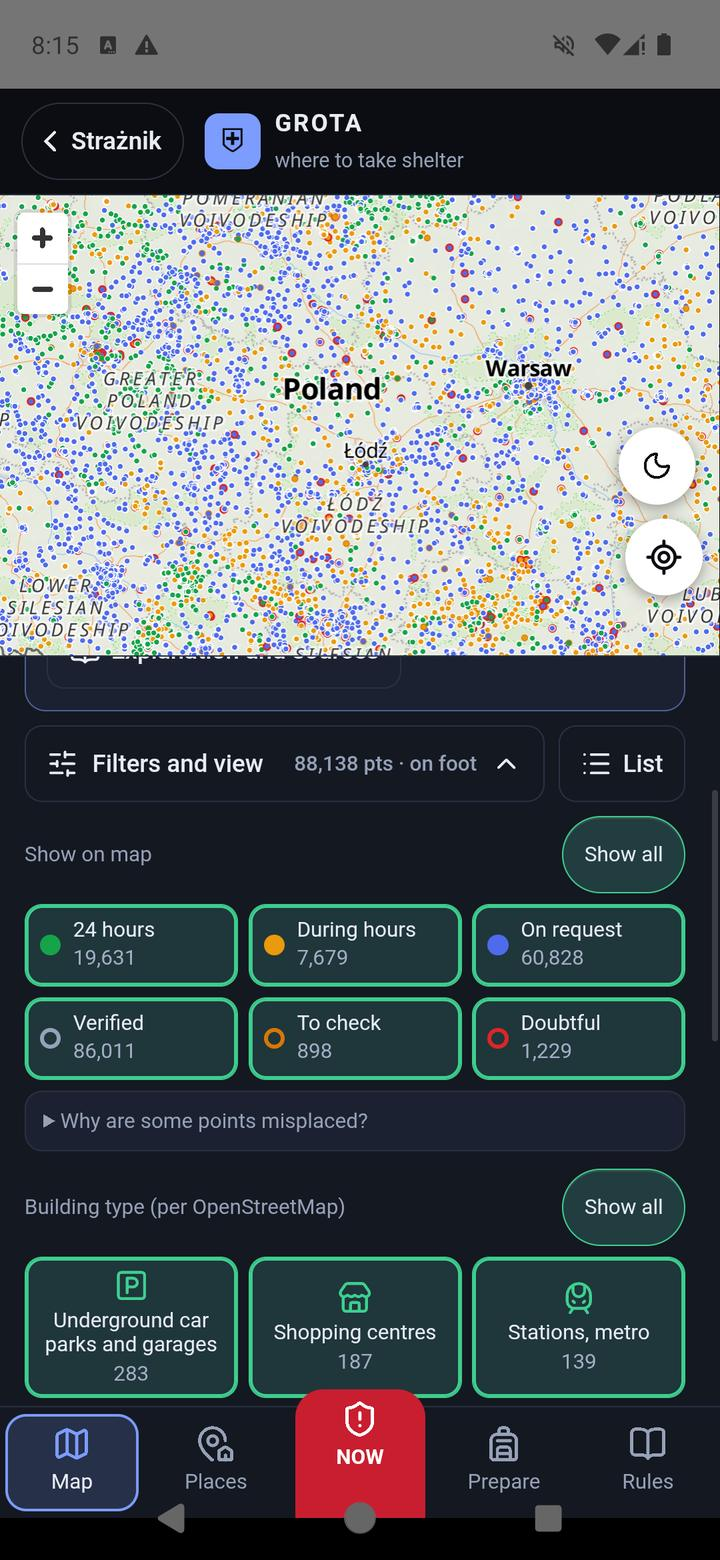
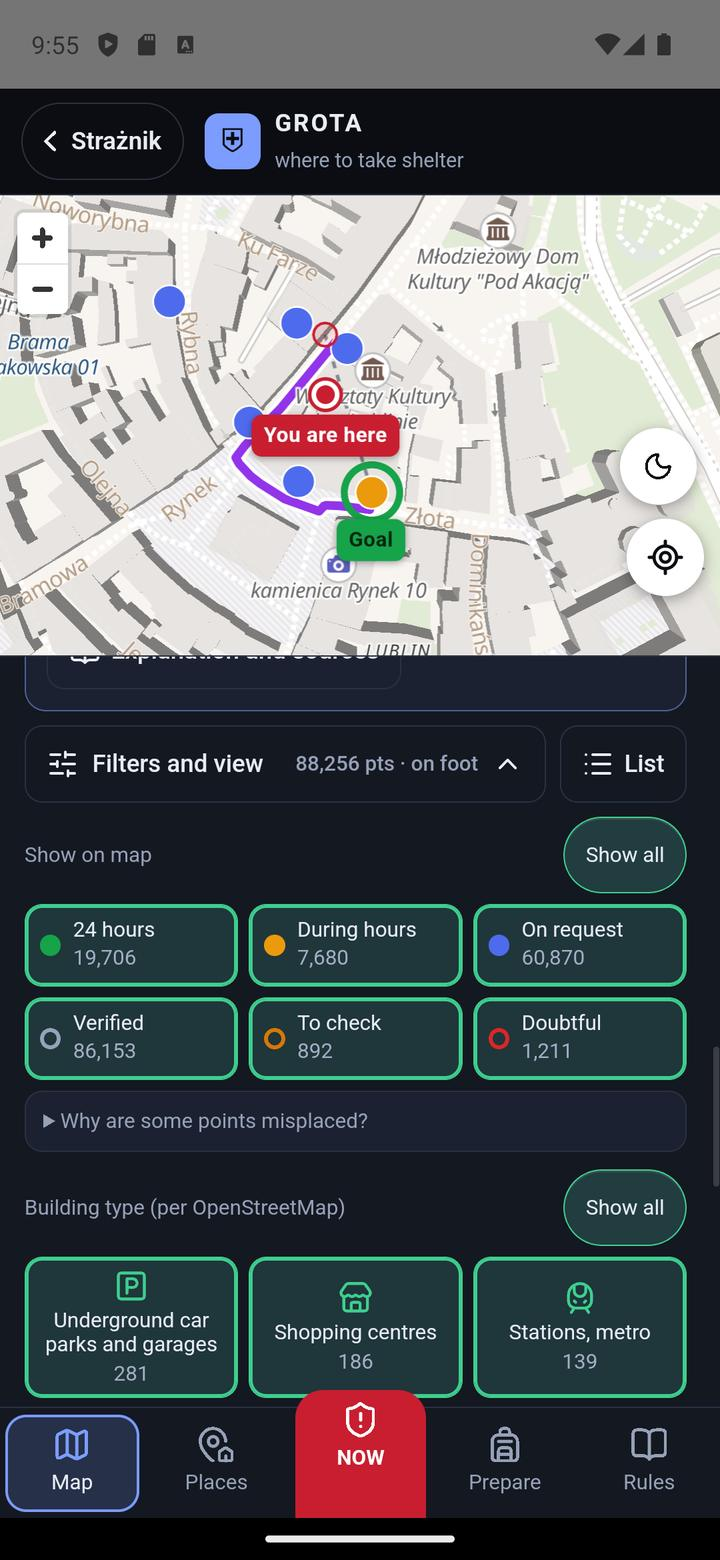
Instrukcja GROTY: zrzuty do wykazu z 10.11.2026 (filtry, data wykazu, ostrzezenie)
Dziewiec klatek - g13, g29, g31 po polsku, angielsku i ukrainsku - z jednego
buildu debug galezi grota-wykaz-1011 (modul 2f0f7ba4db, wykaz z 10.11),
na emulatorze Pixel 7 z Androidem 14 przy wm size 1080x2340, przeskalowane
do 720x1560 JPEG. Nic nie retuszowane.

Liczniki na g13 zgodzily sie co do jednego z policzonymi z paczki przed
zrzutem: 19 706 / 7680 / 60 870 wedlug dostepnosci i 86 153 / 892 / 1211
wedlug pewnosci polozenia.

Ukrainski g13 ma liczby pod kafelkami rodzaju budynku ciete dolna krawedzia,
bo ukrainskie napisy lamia sie na dwie linie. Poprzedni opis alternatywny
wymienial te liczby, mimo ze na obrazku ich nie widac - teraz opis mowi,
ze sa uciete, zamiast podawac to, czego na ekranie nie ma.

Stan do g31 (miejsce "Dom" z punktem OZO-77191AD48DDA i zapisana data wykazu
2026-10-26) wpisany do pamieci aplikacji tak samo jak 02.11 i tak samo opisany
w docs/screens/README.md. Emulator byl wyczyszczony, wiec seria przeszla przez
wlasny pierwszy start aplikacji: zgoda na powiadomienia ODMOWIONA, alarmow nie
wlaczano, nadana tylko lokalizacja.

Klatki z 02.11 zastapione, nie zostawione obok - pokazuja liczby i date, ktorych
w aplikacji juz nie ma. Wykaz z 06.11 nie ma zadnych klatek, bo nie zostal wydany.

diff --git a/docs/grota-uk.html b/docs/grota-uk.html
@@ -29,7 +29,7 @@
     <h1>GROTA — де сховатися</h1>
     <p class="lead">GROTA — частина застосунку Strażnik («Вартовий»). Під час повітряної тривоги вона показує <b>найближчі місця укриття</b> з публічного переліку Державної пожежної служби Польщі (PSP) і веде до них. Заздалегідь допомагає зберегти укриття біля дому, роботи й школи, завантажити мапу на випадок відсутності інтернету та підготуватися за польським урядовим «Порадником безпеки».</p>
     <div class="actions"><a class="button primary" href="https://play.google.com/store/apps/details?id=pl.straznik.app">↓ Strażnik у Google Play</a><a class="button" href="https://github.com/cukierrro/Straznik/releases/latest/download/Straznik.apk">↓ Завантажити Strażnik для Android</a><a class="button" href="en.html">Посібник Strażnik (англійською)</a></div>
-    <p class="fineprint">З версії 1.7.72 GROTA працює <b>українською</b>, англійською та польською (розділ 8). Сам Strażnik (поза GROTA) має польську й англійську мови, тому його кнопки подаємо польською, а в дужках — англійською. Знімки: 22 вересня 2026, емулятор, позиція в Старому місті Любліна; списки підготовки і вкладку Правила перезняли 26 вересня 2026 у випуску 1.7.80, мапу й фільтри — 19 жовтня 2026 у випуску 1.7.99, новий екран пошуку без інтернету — 26 жовтня 2026, а фільтри, дату переліку PSP і попередження про зміну переліку — 2 листопада 2026, після виходу переліку з того дня; адреси з переліку PSP залишаються польською. GROTA працює в застосунках для Android та iPhone; у браузерній версії її немає. Торкніться знімка, щоб відкрити його повністю. Переклад посібника — машинний з перевіркою; якщо помітите помилку, напишіть нам.</p>
+    <p class="fineprint">З версії 1.7.72 GROTA працює <b>українською</b>, англійською та польською (розділ 8). Сам Strażnik (поза GROTA) має польську й англійську мови, тому його кнопки подаємо польською, а в дужках — англійською. Знімки: 22 вересня 2026, емулятор, позиція в Старому місті Любліна; списки підготовки і вкладку Правила перезняли 26 вересня 2026 у випуску 1.7.80, мапу й фільтри — 19 жовтня 2026 у випуску 1.7.99, новий екран пошуку без інтернету — 26 жовтня 2026, а фільтри, дату переліку PSP і попередження про зміну переліку — 11 листопада 2026, після виходу переліку від 10 листопада; адреси з переліку PSP залишаються польською. GROTA працює в застосунках для Android та iPhone; у браузерній версії її немає. Торкніться знімка, щоб відкрити його повністю. Переклад посібника — машинний з перевіркою; якщо помітите помилку, напишіть нам.</p>
   </div>
   <a class="shot-link" href="screens/grota/g04-teraz-propozycja-uk.jpg"><img src="screens/grota/g04-teraz-propozycja-uk.jpg" width="720" height="1560" alt="Екран ЗАРАЗ у GROTA: мапа Старого міста Любліна з маршрутом від «Ви тут» до мети, під нею картка «Найближче перевірене укриття — ul. Złota 2, Lublin» і велика зелена кнопка ВЕСТИ"></a>
 </div></header>
@@ -114,7 +114,7 @@
   <div class="shots"><figure><a class="shot-link" href="screens/grota/g30-lista-uk.jpg"><img loading="lazy" src="screens/grota/g30-lista-uk.jpg" width="720" height="1560" alt="Список найближчих пунктів: ul. Podwale 11 69 м, ul. Podwale 11 78 м, ul. Grodzka 5 102 м, ul. Zlota 2 107 м — з часом пішки, доступом і видом об'єкта"></a><figcaption>Ті самі пункти, що й на мапі, словами.</figcaption></figure></div>
   <h3>Фільтри й вигляд</h3>
   <p><kbd>Фільтри й вигляд</kbd> під мапою дозволяє показати лише вибрані пункти: за доступом (<kbd>Цілодобово</kbd>, <kbd>У години</kbd>, <kbd>На вимогу</kbd>), за певністю розташування (<kbd>Перевірені</kbd>, <kbd>Перевірити</kbd>, <kbd>Сумнівні</kbd>) і за <b>типом будівлі</b> (11 груп, наприклад підземні паркінги, багатоквартирні будинки, школи, лікарні). Кожна кнопка вмикає або вимикає свою групу; <kbd>Показати всі</kbd> позначає все, а натиснута ще раз — знімає позначки. Тут також вибираєте <kbd>Пішки</kbd>, <kbd>Велосипед</kbd> або <kbd>Автомобіль</kbd>.</p>
-  <div class="shots"><figure><a class="shot-link" href="screens/grota/g13-mapa-filtry-uk.jpg"><img loading="lazy" src="screens/grota/g13-mapa-filtry-uk.jpg" width="720" height="1560" alt="Розгорнуті фільтри: Цілодобово 19 631, У години 7 679, На вимогу 60 828, Перевірені 86 011, Перевірити 898, Сумнівні 1 229, а нижче типи будівель — підземні паркінги й гаражі 283, торговельні центри 187, вокзали, станції, метро 139"></a><figcaption>Фільтри доступу і певності.</figcaption></figure><figure><a class="shot-link" href="screens/grota/g14-mapa-rodzaje-uk.jpg"><img loading="lazy" src="screens/grota/g14-mapa-rodzaje-uk.jpg" width="720" height="1560" alt="Тип будівлі (за OpenStreetMap): підземні паркінги, торгові центри, вокзали, багатоквартирні будинки, будинки, школи, лікарні, установи, офіси, культура, невідомий"></a><figcaption>Тип будівлі.</figcaption></figure></div>
+  <div class="shots"><figure><a class="shot-link" href="screens/grota/g13-mapa-filtry-uk.jpg"><img loading="lazy" src="screens/grota/g13-mapa-filtry-uk.jpg" width="720" height="1560" alt="Розгорнуті фільтри: Цілодобово 19 706, У години 7 680, На вимогу 60 870, Перевірені 86 153, Перевірити 892, Сумнівні 1 211, а нижче типи будівель — підземні паркінги й гаражі, торговельні центри, вокзали, станції, метро (числа під ними обрізані нижнім краєм екрана)"></a><figcaption>Фільтри доступу і певності.</figcaption></figure><figure><a class="shot-link" href="screens/grota/g14-mapa-rodzaje-uk.jpg"><img loading="lazy" src="screens/grota/g14-mapa-rodzaje-uk.jpg" width="720" height="1560" alt="Тип будівлі (за OpenStreetMap): підземні паркінги, торгові центри, вокзали, багатоквартирні будинки, будинки, школи, лікарні, установи, офіси, культура, невідомий"></a><figcaption>Тип будівлі.</figcaption></figure></div>
   <div class="note">Фільтр мапи діє <b>лише на мапу</b>. ЗАРАЗ завжди шукає серед усіх перевірених пунктів, якщо ви самі не звузили вибір у «Вести до пунктів».</div>
   <p><b>Чому тут немає «сховищ»?</b> Під час першого відкриття GROTA пояснює, що публічні дані PSP не розрізняють сховище, укриття і тимчасове місце захисту, а повний реєстр за законом не є публічним. <kbd>Пояснення й джерела</kbd> веде до Правил.</p>
 </section>
@@ -139,7 +139,7 @@
     <li>Записаний маршрут до такого пункту застарів — GROTA ним не поведе і пояснить чому.</li>
     <li>Таке саме попередження побачите, коли пункт зникне з переліку (26 жовтня їх убуло 300).</li>
   </ul>
-  <div class="shots"><figure><a class="shot-link" href="screens/grota/g31-zmiana-wykazu-uk.jpg"><img loading="lazy" src="screens/grota/g31-zmiana-wykazu-uk.jpg" width="720" height="1560" alt="Картка місця Dom (укриття 1/3, пішки) з попередженням: Перелік PSP змінився — перевірте збережені укриття. Збережене тут укриття: ul. Spacerowa 51, Pęczniew, гміна Pęczniew; у переліку PSP від 2026-11-02 під тим самим номером тепер інша будівля: ul. Polna 13/15, Poddębice — за 19 км. Вибір нового місця укриття є обов’язковим. Кнопки Вибрати нове укриття і Залишаю як є"></a><figcaption>Попередження біля укриття, збереженого перед зміною переліку.</figcaption></figure></div>
+  <div class="shots"><figure><a class="shot-link" href="screens/grota/g31-zmiana-wykazu-uk.jpg"><img loading="lazy" src="screens/grota/g31-zmiana-wykazu-uk.jpg" width="720" height="1560" alt="Картка місця Dom (укриття 3/3, пішки) з попередженням: Перелік PSP змінився — перевірте збережені укриття. Збережене тут укриття: ul. Spacerowa 51, Pęczniew, гміна Pęczniew; у переліку PSP від 2026-11-10 під тим самим номером тепер інша будівля: ul. Polna 13/15, Poddębice — за 19 км. Вибір нового місця укриття є обов’язковим. Кнопки Вибрати нове укриття і Залишаю як є"></a><figcaption>Попередження біля укриття, збереженого перед зміною переліку.</figcaption></figure></div>
   <h3>Подробиці, нотатки й редагування</h3>
   <p>У подробицях місця видно розташування, <b>«Моє місце в будівлі»</b> (наприклад «коридор на першому поверсі, без вікон» — де сховатися, якщо не встигнете вийти) і вибрані укриття. Біля кожного укриття є поле <b>«Як увійти — години, хто відчиняє, контакт управителя (ваша нотатка)»</b>. Його варто заповнити після розмови з управителем. Олівець відкриває редагування: назва, розташування, вид, ваше місце в будівлі з прапорцем <b>«Я перевірив це місце на місці»</b>, короткий список підготовки і спосіб пересування. Зміни зберігаються самі. Кошик видаляє місце, а ручка ⋮⋮ змінює порядок.</p>
   <div class="shots"><figure><a class="shot-link" href="screens/grota/g17-miejsce-szczegoly-uk.jpg"><img loading="lazy" src="screens/grota/g17-miejsce-szczegoly-uk.jpg" width="720" height="1560" alt="Подробиці місця Дім: розташування, моє місце в будівлі, перевірене; пересування пішки"></a><figcaption>Подробиці місця.</figcaption></figure><figure><a class="shot-link" href="screens/grota/g18-miejsce-schronienia-uk.jpg"><img loading="lazy" src="screens/grota/g18-miejsce-schronienia-uk.jpg" width="720" height="1560" alt="Мої укриття 2/3: ul. Złota 2 з нотаткою і записаним маршрутом"></a><figcaption>Укриття з нотаткою і записаним маршрутом.</figcaption></figure></div>
@@ -175,7 +175,7 @@
 <section id="zasady">
   <h2>7. Вкладка Правила</h2>
 <p>GROTA не створює власних процедур. Кожна порада у вкладці <kbd>Правила</kbd> — цитата з польського урядового «Порадника безпеки» («Poradnik bezpieczeństwa», 1/2025) з номером сторінки: що робити, почувши сигнал тривоги, повітряна атака, укриття (що робити, якщо не встигаєте), евакуація, підготовка оточення і план на випадок кризи. Від випуску 1.7.80 є також окремий розділ <b>«Інструкція реагування МВС Польщі»</b> — цитати з матеріалу МВС Польщі та Державної пожежної служби від 25 вересня 2026 року: як вибрати приміщення, правило двох стін, коли не спускатися в підвал і де стати в підземному гаражі. Далі пояснення: чого порадник не визначає, чому в GROTA немає «сховищ», <b>наскільки свіжі пункти</b> (дата реєстру PSP і їх кількість, взяті прямо з пакета даних), обмеження даних, звідки беруться зміщені пункти, і джерела. <kbd>Закрити</kbd> повертає до попередньої вкладки.</p>
-  <div class="shots"><figure><a class="shot-link" href="screens/grota/g28-zasady-instrukcja-uk.jpg"><img loading="lazy" src="screens/grota/g28-zasady-instrukcja-uk.jpg" width="720" height="1560" alt="Розділ Інструкція реагування МВС Польщі у вкладці Правила: пояснення, що це за матеріал від 25 вересня 2026 року, і правило Коли встигаєте до пункту укриття зі сторінкою 4"></a><figcaption>Правила з інструкції МВС.</figcaption></figure><figure><a class="shot-link" href="screens/grota/g29-zasady-dane-uk.jpg"><img loading="lazy" src="screens/grota/g29-zasady-dane-uk.jpg" width="720" height="1560" alt="Розділ Наскільки свіжі пункти: пункти з відкритого реєстру Державної пожежної служби, станом на 02.11.2026, 88 138 у цій версії застосунку"></a><figcaption>Дата реєстру PSP.</figcaption></figure></div>
+  <div class="shots"><figure><a class="shot-link" href="screens/grota/g28-zasady-instrukcja-uk.jpg"><img loading="lazy" src="screens/grota/g28-zasady-instrukcja-uk.jpg" width="720" height="1560" alt="Розділ Інструкція реагування МВС Польщі у вкладці Правила: пояснення, що це за матеріал від 25 вересня 2026 року, і правило Коли встигаєте до пункту укриття зі сторінкою 4"></a><figcaption>Правила з інструкції МВС.</figcaption></figure><figure><a class="shot-link" href="screens/grota/g29-zasady-dane-uk.jpg"><img loading="lazy" src="screens/grota/g29-zasady-dane-uk.jpg" width="720" height="1560" alt="Розділ Наскільки свіжі пункти: пункти з відкритого реєстру Державної пожежної служби, станом на 10.11.2026, 88 256 у цій версії застосунку"></a><figcaption>Дата реєстру PSP.</figcaption></figure></div>
 </section>
 
 <section id="jezyk">

diff --git a/docs/grota.html b/docs/grota.html
@@ -29,7 +29,7 @@
     <h1>GROTA — gdzie się schronić</h1>
     <p class="lead">GROTA to część aplikacji Strażnik. Przy alarmie pokazuje <b>najbliższe miejsca schronienia</b> z publicznego wykazu Państwowej Straży Pożarnej i prowadzi do nich. Zawczasu pomaga zapisać schronienia przy domu, pracy i szkole, pobrać mapę na wypadek braku internetu i przygotować się według „Poradnika bezpieczeństwa”.</p>
     <div class="actions"><a class="button primary" href="https://play.google.com/store/apps/details?id=pl.straznik.app">↓ Strażnik w Google Play</a><a class="button" href="https://github.com/cukierrro/Straznik/releases/latest/download/Straznik.apk">↓ Pobierz Strażnika na Androida</a><a class="button" href="index.html">Instrukcja Strażnika</a></div>
-    <p class="fineprint">Zrzuty zrobiono 22 września 2026 w Strażniku 1.7.68, z pozycją na Starym Mieście w Lublinie; listy przygotowań i zakładkę Zasady odświeżono 26 września 2026 w wydaniu 1.7.80, mapę i filtry 19 października 2026 w wydaniu 1.7.99, nowy ekran szukania bez internetu — 26 października 2026, a filtry, datę wykazu PSP i ostrzeżenie o zmianie wykazu — 2 listopada 2026, po wejściu wykazu z tego dnia. Adresy na zrzutach pochodzą z publicznego wykazu PSP. GROTA działa w aplikacji na Androida i na iPhone'a; <b>nie ma jej w wersji przeglądarkowej</b>. Od wersji 1.7.72 mówi po polsku, angielsku i ukraińsku (rozdział 8). Dotknij zdjęcia, aby otworzyć je w pełnym rozmiarze.</p>
+    <p class="fineprint">Zrzuty zrobiono 22 września 2026 w Strażniku 1.7.68, z pozycją na Starym Mieście w Lublinie; listy przygotowań i zakładkę Zasady odświeżono 26 września 2026 w wydaniu 1.7.80, mapę i filtry 19 października 2026 w wydaniu 1.7.99, nowy ekran szukania bez internetu — 26 października 2026, a filtry, datę wykazu PSP i ostrzeżenie o zmianie wykazu — 11 listopada 2026, po wejściu wykazu z 10 listopada. Adresy na zrzutach pochodzą z publicznego wykazu PSP. GROTA działa w aplikacji na Androida i na iPhone'a; <b>nie ma jej w wersji przeglądarkowej</b>. Od wersji 1.7.72 mówi po polsku, angielsku i ukraińsku (rozdział 8). Dotknij zdjęcia, aby otworzyć je w pełnym rozmiarze.</p>
   </div>
   <a class="shot-link" href="screens/grota/g04-teraz-propozycja.jpg"><img src="screens/grota/g04-teraz-propozycja.jpg" width="720" height="1560" alt="Ekran TERAZ w GROCIE: mapa Starego Miasta w Lublinie z trasą od „Tu jesteś” do celu, a pod nią karta „Najbliższe sprawdzone miejsce schronienia — ul. Złota 2, Lublin, 218 m, ok. 3 min trasą” i duży zielony przycisk PROWADŹ"></a>
 </div></header>
@@ -114,7 +114,7 @@
   <div class="shots"><figure><a class="shot-link" href="screens/grota/g30-lista.jpg"><img loading="lazy" src="screens/grota/g30-lista.jpg" width="720" height="1560" alt="Lista najbliższych punktów: ul. Podwale 11 69 m, ul. Podwale 11 78 m, ul. Grodzka 5 102 m, ul. Złota 2 107 m — z czasem dojścia, dostępem i rodzajem obiektu"></a><figcaption>Te same punkty co na mapie, do przeczytania.</figcaption></figure></div>
   <h3>Filtry i widok</h3>
   <p><kbd>Filtry i widok</kbd> pod mapą pozwala pokazać tylko wybrane punkty: według dostępu (<kbd>Całodobowo</kbd>, <kbd>W godzinach</kbd>, <kbd>Na żądanie</kbd>), pewności położenia (<kbd>Sprawdzone</kbd>, <kbd>Do sprawdzenia</kbd>, <kbd>Wątpliwe</kbd>) i <b>rodzaju budynku</b> (11 grup, np. parkingi podziemne, bloki, szkoły, szpitale). Każdy przycisk włącza albo wyłącza swoją grupę; <kbd>Pokaż wszystkie</kbd> zaznacza wszystko, a naciśnięte ponownie — odznacza. Tu też wybierasz <kbd>Pieszo</kbd>, <kbd>Rower</kbd> albo <kbd>Samochód</kbd>.</p>
-  <div class="shots"><figure><a class="shot-link" href="screens/grota/g13-mapa-filtry.jpg"><img loading="lazy" src="screens/grota/g13-mapa-filtry.jpg" width="720" height="1560" alt="Rozwinięte filtry: Całodobowo 19 631, W godzinach 7679, Na żądanie 60 828, Sprawdzone 86 011, Do sprawdzenia 898, Wątpliwe 1229, a niżej rodzaje budynku — parkingi podziemne i garaże 283, centra handlowe 187, dworce, stacje, metro 139"></a><figcaption>Filtry dostępu i pewności.</figcaption></figure><figure><a class="shot-link" href="screens/grota/g14-mapa-rodzaje.jpg"><img loading="lazy" src="screens/grota/g14-mapa-rodzaje.jpg" width="720" height="1560" alt="Rodzaj budynku wg OpenStreetMap: parkingi podziemne, centra handlowe, dworce, bloki, domy, szkoły, szpitale, urzędy, biura, kultura, rodzaj nieznany"></a><figcaption>Rodzaj budynku.</figcaption></figure></div>
+  <div class="shots"><figure><a class="shot-link" href="screens/grota/g13-mapa-filtry.jpg"><img loading="lazy" src="screens/grota/g13-mapa-filtry.jpg" width="720" height="1560" alt="Rozwinięte filtry: Całodobowo 19 706, W godzinach 7680, Na żądanie 60 870, Sprawdzone 86 153, Do sprawdzenia 892, Wątpliwe 1211, a niżej rodzaje budynku — parkingi podziemne i garaże 281, centra handlowe 186, dworce, stacje, metro 139"></a><figcaption>Filtry dostępu i pewności.</figcaption></figure><figure><a class="shot-link" href="screens/grota/g14-mapa-rodzaje.jpg"><img loading="lazy" src="screens/grota/g14-mapa-rodzaje.jpg" width="720" height="1560" alt="Rodzaj budynku wg OpenStreetMap: parkingi podziemne, centra handlowe, dworce, bloki, domy, szkoły, szpitale, urzędy, biura, kultura, rodzaj nieznany"></a><figcaption>Rodzaj budynku.</figcaption></figure></div>
   <div class="note">Filtr mapy dotyczy <b>tylko mapy</b>. TERAZ zawsze szuka wśród wszystkich sprawdzonych punktów, chyba że sam zawęzisz wybór w „Prowadź do punktów”.</div>
   <p><b>Czemu nie ma tu „schronów”?</b> Przy pierwszym wejściu GROTA wyjaśnia, że publiczne dane PSP nie rozróżniają schronu, ukrycia i miejsca doraźnego schronienia, a pełna ewidencja z mocy ustawy nie jest jawna. <kbd>Wyjaśnienie i źródła</kbd> prowadzi do Zasad.</p>
 </section>
@@ -139,7 +139,7 @@
     <li>Nagrana trasa do takiego punktu jest nieaktualna — GROTA nią nie poprowadzi i powie dlaczego.</li>
     <li>To samo ostrzeżenie zobaczysz, gdy punkt zniknie z wykazu (26 października ubyło ich 300).</li>
   </ul>
-  <div class="shots"><figure><a class="shot-link" href="screens/grota/g31-zmiana-wykazu.jpg"><img loading="lazy" src="screens/grota/g31-zmiana-wykazu.jpg" width="720" height="1560" alt="Karta miejsca Dom (schronienia 1/3, pieszo) z ostrzeżeniem: Zmienił się wykaz PSP — sprawdź zapisane schronienia. Zapisane tu schronienie: ul. Spacerowa 51, Pęczniew, gm. Pęczniew; w wykazie PSP z 2026-11-02 pod tym samym numerem jest teraz inny obiekt: ul. Polna 13/15, Poddębice — 19 km dalej. Wybór nowego miejsca schronienia jest konieczny. Przyciski Wybierz nowe schronienie i Zostawiam jak jest"></a><figcaption>Ostrzeżenie przy schronieniu zapisanym przed zmianą wykazu.</figcaption></figure></div>
+  <div class="shots"><figure><a class="shot-link" href="screens/grota/g31-zmiana-wykazu.jpg"><img loading="lazy" src="screens/grota/g31-zmiana-wykazu.jpg" width="720" height="1560" alt="Karta miejsca Dom (schronienia 3/3, pieszo) z ostrzeżeniem: Zmienił się wykaz PSP — sprawdź zapisane schronienia. Zapisane tu schronienie: ul. Spacerowa 51, Pęczniew, gm. Pęczniew; w wykazie PSP z 2026-11-10 pod tym samym numerem jest teraz inny obiekt: ul. Polna 13/15, Poddębice — 19 km dalej. Wybór nowego miejsca schronienia jest konieczny. Przyciski Wybierz nowe schronienie i Zostawiam jak jest"></a><figcaption>Ostrzeżenie przy schronieniu zapisanym przed zmianą wykazu.</figcaption></figure></div>
   <h3>Szczegóły, notatki i edycja</h3>
   <p>W szczegółach miejsca widać położenie, <b>„Moje miejsce w budynku”</b> (np. „korytarz na parterze, bez okien” — gdzie się schować, gdy nie zdążysz wyjść) i wybrane schronienia. Przy każdym schronieniu jest pole <b>„Jak wejść — godziny, kto otwiera, kontakt do zarządcy (Twoja notatka)”</b>. Warto je wypełnić po rozmowie z zarządcą. Ołówek otwiera edycję: nazwa, położenie, rodzaj, miejsce w budynku z polem „Sprawdziłem to miejsce na miejscu”, skrócona lista kontrolna i środek transportu. Zmiany zapisują się same („✓ Zapisano”). Kosz usuwa miejsce, a uchwyt ⋮⋮ zmienia kolejność.</p>
   <div class="shots"><figure><a class="shot-link" href="screens/grota/g17-miejsce-szczegoly.jpg"><img loading="lazy" src="screens/grota/g17-miejsce-szczegoly.jpg" width="720" height="1560" alt="Szczegóły miejsca Dom: położenie Lublin, ul. Królewska 4, moje miejsce w budynku korytarz na parterze bez okien, sprawdzone, środek transportu Pieszo"></a><figcaption>Szczegóły miejsca.</figcaption></figure><figure><a class="shot-link" href="screens/grota/g18-miejsce-schronienia.jpg"><img loading="lazy" src="screens/grota/g18-miejsce-schronienia.jpg" width="720" height="1560" alt="Moje miejsca schronienia 2/3: ul. Złota 2 z notatką Czynne 8–20, klucz u portiera i nagraną trasą 240 m, 3 min 25 s"></a><figcaption>Schronienie z notatką i nagraną trasą.</figcaption></figure></div>
@@ -175,7 +175,7 @@
 <section id="zasady">
   <h2>7. Zakładka Zasady</h2>
 <p>GROTA nie tworzy własnych procedur. Każde zalecenie w zakładce <kbd>Zasady</kbd> to cytat z „Poradnika bezpieczeństwa” (Rząd RP, 1/2025) z numerem strony: co robić po usłyszeniu sygnału alarmowego, atak z powietrza, schronienia (co robić, gdy nie zdążysz), ewakuacja, przygotowanie otoczenia i plan na kryzys. Od wydania 1.7.80 jest też osobny dział <b>„Instrukcja reagowania MSWiA”</b> — cytaty z materiału MSWiA i Państwowej Straży Pożarnej z 25 września 2026: jak wybrać pomieszczenie, zasada dwóch ścian, kiedy nie schodzić do piwnicy i gdzie stanąć w garażu podziemnym. Dalej są wyjaśnienia: czego poradnik nie określa, dlaczego w GROCIE nie ma „schronów”, <b>z kiedy są punkty</b> (data wykazu PSP i ich liczba, brane wprost z paczki w aplikacji), jakie są ograniczenia danych, skąd biorą się przesunięte punkty i źródła. <kbd>Zamknij</kbd> wraca do poprzedniej zakładki.</p>
-  <div class="shots"><figure><a class="shot-link" href="screens/grota/g27-zasady.jpg"><img loading="lazy" src="screens/grota/g27-zasady.jpg" width="720" height="1560" alt="Góra zakładki Zasady: karta wyboru języka, wyjaśnienie skąd pochodzą zalecenia i pierwszy dział Sygnały alarmowe"></a><figcaption>Zasady z poradnika.</figcaption></figure><figure><a class="shot-link" href="screens/grota/g28-zasady-instrukcja.jpg"><img loading="lazy" src="screens/grota/g28-zasady-instrukcja.jpg" width="720" height="1560" alt="Dział Instrukcja reagowania MSWiA w zakładce Zasady: wyjaśnienie, czym jest materiał z 25 września 2026, i zasada Gdy zdążysz do punktu schronienia ze stroną 4"></a><figcaption>Zasady z instrukcji MSWiA.</figcaption></figure><figure><a class="shot-link" href="screens/grota/g29-zasady-dane.jpg"><img loading="lazy" src="screens/grota/g29-zasady-dane.jpg" width="720" height="1560" alt="Sekcja Z kiedy są punkty: punkty z wykazu Komendy Głównej PSP, stan na 02.11.2026, 88 138 punktów w tej wersji aplikacji"></a><figcaption>Data wykazu PSP.</figcaption></figure></div>
+  <div class="shots"><figure><a class="shot-link" href="screens/grota/g27-zasady.jpg"><img loading="lazy" src="screens/grota/g27-zasady.jpg" width="720" height="1560" alt="Góra zakładki Zasady: karta wyboru języka, wyjaśnienie skąd pochodzą zalecenia i pierwszy dział Sygnały alarmowe"></a><figcaption>Zasady z poradnika.</figcaption></figure><figure><a class="shot-link" href="screens/grota/g28-zasady-instrukcja.jpg"><img loading="lazy" src="screens/grota/g28-zasady-instrukcja.jpg" width="720" height="1560" alt="Dział Instrukcja reagowania MSWiA w zakładce Zasady: wyjaśnienie, czym jest materiał z 25 września 2026, i zasada Gdy zdążysz do punktu schronienia ze stroną 4"></a><figcaption>Zasady z instrukcji MSWiA.</figcaption></figure><figure><a class="shot-link" href="screens/grota/g29-zasady-dane.jpg"><img loading="lazy" src="screens/grota/g29-zasady-dane.jpg" width="720" height="1560" alt="Sekcja Z kiedy są punkty: punkty z wykazu Komendy Głównej PSP, stan na 10.11.2026, 88 256 punktów w tej wersji aplikacji"></a><figcaption>Data wykazu PSP.</figcaption></figure></div>
 </section>
 
 <section id="jezyk">

diff --git a/docs/grota-en.html b/docs/grota-en.html
@@ -29,7 +29,7 @@
     <h1>GROTA — where to take shelter</h1>
     <p class="lead">GROTA is part of the Strażnik app. During an alert it shows the <b>nearest shelter points</b> from the public list of Poland's State Fire Service (PSP) and guides you there. In advance, it helps you save shelters near your home, work and school, download a map for when there is no internet, and prepare following the Polish government's Safety Guide.</p>
     <div class="actions"><a class="button primary" href="https://play.google.com/store/apps/details?id=pl.straznik.app">↓ Strażnik on Google Play</a><a class="button" href="https://github.com/cukierrro/Straznik/releases/latest/download/Straznik.apk">↓ Get Strażnik for Android</a><a class="button" href="en.html">Strażnik user guide</a></div>
-    <p class="fineprint">Since version 1.7.72 GROTA speaks <b>English, Ukrainian and Polish</b> (section 8). Screenshots: 22 September 2026, emulator, position in Lublin's Old Town; the preparation checklists and the Rules tab were retaken on 26 September 2026 in release 1.7.80, the map and filters on 19 October 2026 in release 1.7.99, a new screen for searching without the internet on 26 October 2026, and the filters, the PSP list date and the register-change warning on 2 November 2026, after that day's register came in; addresses come from the public PSP list and stay in Polish. GROTA works in the Android and iPhone apps; it is <b>not part of the browser version</b>. Tap a screenshot to open it full size.</p>
+    <p class="fineprint">Since version 1.7.72 GROTA speaks <b>English, Ukrainian and Polish</b> (section 8). Screenshots: 22 September 2026, emulator, position in Lublin's Old Town; the preparation checklists and the Rules tab were retaken on 26 September 2026 in release 1.7.80, the map and filters on 19 October 2026 in release 1.7.99, a new screen for searching without the internet on 26 October 2026, and the filters, the PSP list date and the register-change warning on 11 November 2026, after the register of 10 November came in; addresses come from the public PSP list and stay in Polish. GROTA works in the Android and iPhone apps; it is <b>not part of the browser version</b>. Tap a screenshot to open it full size.</p>
   </div>
   <a class="shot-link" href="screens/grota/g04-teraz-propozycja-en.jpg"><img src="screens/grota/g04-teraz-propozycja-en.jpg" width="720" height="1560" alt="GROTA's NOW screen: a map of Lublin's Old Town with a route from “You are here” to the goal, and below it the card “Nearest verified shelter — ul. Złota 2, Lublin” with a big green NAVIGATE button"></a>
 </div></header>
@@ -114,7 +114,7 @@
   <div class="shots"><figure><a class="shot-link" href="screens/grota/g30-lista-en.jpg"><img loading="lazy" src="screens/grota/g30-lista-en.jpg" width="720" height="1560" alt="A list of the nearest points: ul. Podwale 11 69 m, ul. Podwale 11 78 m, ul. Grodzka 5 102 m, ul. Zlota 2 107 m — with walking time, access and type of facility"></a><figcaption>The same points as on the map, in words.</figcaption></figure></div>
   <h3>Filters and view</h3>
   <p><kbd>Filters and view</kbd> under the map shows only selected points: by access (<kbd>24 hours</kbd>, <kbd>During hours</kbd>, <kbd>On request</kbd>), by location certainty (<kbd>Verified</kbd>, <kbd>To check</kbd>, <kbd>Doubtful</kbd>) and by <b>building type</b> (11 groups, e.g. underground car parks, blocks of flats, schools, hospitals). Each button toggles its group; <kbd>Show all</kbd> selects everything, and pressed again — clears it. Here you also choose <kbd>On foot</kbd>, <kbd>Bike</kbd> or <kbd>Car</kbd>.</p>
-  <div class="shots"><figure><a class="shot-link" href="screens/grota/g13-mapa-filtry-en.jpg"><img loading="lazy" src="screens/grota/g13-mapa-filtry-en.jpg" width="720" height="1560" alt="The filters expanded: 24 hours 19,631, During hours 7,679, On request 60,828, Verified 86,011, To check 898, Doubtful 1,229, and below them building types — underground car parks and garages 283, shopping centres 187, stations and metro 139"></a><figcaption>Access and certainty filters.</figcaption></figure><figure><a class="shot-link" href="screens/grota/g14-mapa-rodzaje-en.jpg"><img loading="lazy" src="screens/grota/g14-mapa-rodzaje-en.jpg" width="720" height="1560" alt="Building type (per OpenStreetMap): underground car parks, shopping centres, stations, blocks of flats, houses, schools, hospitals, offices, businesses, culture, unknown"></a><figcaption>Building type.</figcaption></figure></div>
+  <div class="shots"><figure><a class="shot-link" href="screens/grota/g13-mapa-filtry-en.jpg"><img loading="lazy" src="screens/grota/g13-mapa-filtry-en.jpg" width="720" height="1560" alt="The filters expanded: 24 hours 19,706, During hours 7,680, On request 60,870, Verified 86,153, To check 892, Doubtful 1,211, and below them building types — underground car parks and garages 281, shopping centres 186, stations and metro 139"></a><figcaption>Access and certainty filters.</figcaption></figure><figure><a class="shot-link" href="screens/grota/g14-mapa-rodzaje-en.jpg"><img loading="lazy" src="screens/grota/g14-mapa-rodzaje-en.jpg" width="720" height="1560" alt="Building type (per OpenStreetMap): underground car parks, shopping centres, stations, blocks of flats, houses, schools, hospitals, offices, businesses, culture, unknown"></a><figcaption>Building type.</figcaption></figure></div>
   <div class="note">The map filter affects <b>only the map</b>. NOW always searches among all verified points, unless you narrow the choice in “Guide to points”.</div>
   <p><b>Why are there no “bunkers” here?</b> On the first visit GROTA explains that the public PSP data does not distinguish a bunker, a shelter and a makeshift refuge, and the full register is not public by law. <kbd>Explanation and sources</kbd> leads to the Rules.</p>
 </section>
@@ -139,7 +139,7 @@
     <li>A route you recorded to such a point is out of date — GROTA will not guide you along it and will say why.</li>
     <li>You will see the same warning when a point disappears from the list (300 were removed on 26 October).</li>
   </ul>
-  <div class="shots"><figure><a class="shot-link" href="screens/grota/g31-zmiana-wykazu-en.jpg"><img loading="lazy" src="screens/grota/g31-zmiana-wykazu-en.jpg" width="720" height="1560" alt="The place card Dom (shelters 1/3, on foot) with the warning: The PSP list has changed — check your saved shelters. The shelter saved here: ul. Spacerowa 51, Pęczniew, Pęczniew municipality; in the PSP list of 2026-11-02 the same number now points to a different building: ul. Polna 13/15, Poddębice — 19 km away. Choosing a new shelter is necessary. Buttons Choose a new shelter and Leave it as it is"></a><figcaption>The warning at a shelter saved before the register changed.</figcaption></figure></div>
+  <div class="shots"><figure><a class="shot-link" href="screens/grota/g31-zmiana-wykazu-en.jpg"><img loading="lazy" src="screens/grota/g31-zmiana-wykazu-en.jpg" width="720" height="1560" alt="The place card Dom (shelters 3/3, on foot) with the warning: The PSP list has changed — check your saved shelters. The shelter saved here: ul. Spacerowa 51, Pęczniew, Pęczniew municipality; in the PSP list of 2026-11-10 the same number now points to a different building: ul. Polna 13/15, Poddębice — 19 km away. Choosing a new shelter is necessary. Buttons Choose a new shelter and Leave it as it is"></a><figcaption>The warning at a shelter saved before the register changed.</figcaption></figure></div>
   <h3>Details, notes and editing</h3>
   <p>A place's details show its location, <b>“My spot in the building”</b> (e.g. “ground-floor corridor, no windows” — where to hide if you can't get out in time) and the chosen shelters. Each shelter has a field <b>“How to get in — hours, who opens it, building manager's contact (your note)”</b>. It is worth filling in after talking to the manager. The pencil opens editing: name, location, type, your spot in the building with a tick <b>“I have checked this spot on site”</b>, a short checklist and the means of transport. Changes save themselves. The bin deletes a place, and the ⋮⋮ handle changes the order.</p>
   <div class="shots"><figure><a class="shot-link" href="screens/grota/g17-miejsce-szczegoly-en.jpg"><img loading="lazy" src="screens/grota/g17-miejsce-szczegoly-en.jpg" width="720" height="1560" alt="Details of the place Home: location, my spot in the building, verified; transport on foot"></a><figcaption>Place details.</figcaption></figure><figure><a class="shot-link" href="screens/grota/g18-miejsce-schronienia-en.jpg"><img loading="lazy" src="screens/grota/g18-miejsce-schronienia-en.jpg" width="720" height="1560" alt="My shelters 2/3: ul. Złota 2 with a note and a recorded route"></a><figcaption>A shelter with a note and a recorded route.</figcaption></figure></div>
@@ -175,7 +175,7 @@
 <section id="zasady">
   <h2>7. The Rules tab</h2>
 <p>GROTA does not make up its own procedures. Every recommendation in the <kbd>Rules</kbd> tab is a quote from the Polish government's Safety Guide (“Poradnik bezpieczeństwa”, 1/2025) with its page number: what to do when you hear an alert signal, an air attack, shelters (what to do if you can't make it in time), evacuation, preparing your surroundings and a crisis plan. Since release 1.7.80 there is also a separate section <b>“Response instruction, Ministry of the Interior”</b> — quotes from the document published by the Ministry of the Interior and the State Fire Service on 25 September 2026: how to choose a room, the two-wall rule, when not to go down to a basement and where to stand in an underground garage. Then come explanations: what the guide does not specify, why GROTA has no “bunkers”, <b>how current the points are</b> (the date of the PSP register and how many points this build holds, both taken straight from the data pack), the limits of the data, where misplaced points come from, and the sources. <kbd>Close</kbd> returns to the previous tab.</p>
-  <div class="shots"><figure><a class="shot-link" href="screens/grota/g28-zasady-instrukcja-en.jpg"><img loading="lazy" src="screens/grota/g28-zasady-instrukcja-en.jpg" width="720" height="1560" alt="The Response instruction section in the Rules tab: what the 25 September 2026 document is, and the rule When you can reach a shelter point in time with page 4"></a><figcaption>Rules from the ministry's instruction.</figcaption></figure><figure><a class="shot-link" href="screens/grota/g29-zasady-dane-en.jpg"><img loading="lazy" src="screens/grota/g29-zasady-dane-en.jpg" width="720" height="1560" alt="The How current the points are section: points from the public register of the State Fire Service, as of 02.11.2026, 88,138 in this version of the app"></a><figcaption>The date of the PSP register.</figcaption></figure></div>
+  <div class="shots"><figure><a class="shot-link" href="screens/grota/g28-zasady-instrukcja-en.jpg"><img loading="lazy" src="screens/grota/g28-zasady-instrukcja-en.jpg" width="720" height="1560" alt="The Response instruction section in the Rules tab: what the 25 September 2026 document is, and the rule When you can reach a shelter point in time with page 4"></a><figcaption>Rules from the ministry's instruction.</figcaption></figure><figure><a class="shot-link" href="screens/grota/g29-zasady-dane-en.jpg"><img loading="lazy" src="screens/grota/g29-zasady-dane-en.jpg" width="720" height="1560" alt="The How current the points are section: points from the public register of the State Fire Service, as of 10.11.2026, 88,256 in this version of the app"></a><figcaption>The date of the PSP register.</figcaption></figure></div>
 </section>
 
 <section id="jezyk">

diff --git a/docs/screens/README.md b/docs/screens/README.md
@@ -134,14 +134,29 @@ release 1.8.01 and is fixed in 1.8.02; finding it on screen is why these frames 
 from the release build.
 
 The GROTA captures `g13-mapa-filtry*`, `g29-zasady-dane*` and `g31-zmiana-wykazu*` (Polish,
-`-en`, `-uk`) were retaken on 2 November 2026 between 08:08 and 09:33 Europe/Warsaw, after the
-PSP register of that day came in (88,138 points, up from 87,835). All nine frames come from
-`Straznik-1.8.06-136-TEST-debug.apk`, a test build from the main session carrying the module
-8f6e4c98a5 and the register of 2 November, on the Pixel 7 emulator with Android 14 at
-`wm size 1080x2340`, then downscaled to 720 x 1560 JPEG. Nothing in them is retouched. The
-counters in `g13-*` are the ones the pack really holds and were cross-checked against the pack
-before the capture: 19,631 / 7,679 / 60,828 by access and 86,011 / 898 / 1,229 by location
-certainty.
+`-en`, `-uk`) were retaken on 11 November 2026 between 10:55 and 11:12 Europe/Warsaw, after the
+PSP register of 10 November came in (88,256 points, up from 88,138). All nine frames come from
+one debug build of branch `grota-wykaz-1011` (`app-github-debug.apk`, sha256 90eca31f74b0…),
+carrying the module 2f0f7ba4db and the register of 10 November, on the Pixel 7 emulator with
+Android 14 at `wm size 1080x2340`, then downscaled to 720 x 1560 JPEG. Nothing in them is
+retouched. The counters in `g13-*` are the ones the pack really holds and were cross-checked
+against the pack before the capture: 19,706 / 7,680 / 60,870 by access and 86,153 / 892 / 1,211
+by location certainty.
+
+The frames of 2 November were replaced rather than kept beside these: the figures and the date
+they show are no longer the ones in the app. The register of 6 November, rebuilt and then
+dropped, never reached a phone and has no frames.
+
+The emulator had been wiped before this series, so the first run went through the app's own
+first start: the notification permission was declined, the full-screen-alert prompt was left
+alone, and only location was granted (`pm grant`). No notifications and no alarms were enabled.
+
+What is written below about `g31-zmiana-wykazu*` holds for this series too: the same place
+"Dom" with the same shelter `OZO-77191AD48DDA` and the same recorded register date 2026-10-26
+was written into the app's storage, and the warning the app then computed names the register
+of 10 November. The Ukrainian `g13-*` has its building-type counts cut off by the bottom edge,
+because those labels wrap to two lines; the alt text says so instead of naming numbers that
+are not on the screen.
 
 Two things about this series differ from the one of 26 October and are worth stating.
 
